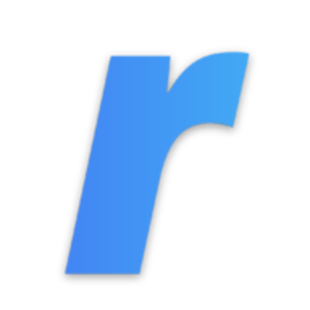
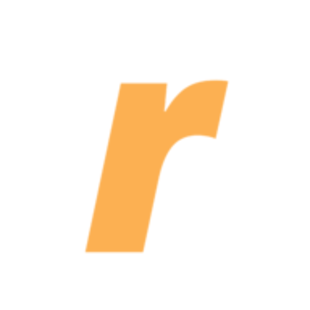
change theme color

Changed region(s): [[0.2032, 0.1452, 0.8129, 0.929]]

diff --git a/index.html b/index.html
@@ -21,9 +21,9 @@
   <link rel="icon" type="image/png" sizes="16x16" href="/assets/images/favicon-16x16.png">
 
                                     <!-- THEME AND SEO -->
-  <meta name="msapplication-TileColor" content="#ffffff">
+  <meta name="msapplication-TileColor" content="#2b334f">
   <meta name="msapplication-TileImage" content="/ms-icon-144x144.png">
-  <meta name="theme-color" content="#fff">
+  <meta name="theme-color" content="#2b334f">
   <meta name="viewport" content="width=device-width,initial-scale=1">
   <meta name="author" content="Ronaldi Chandra">
   <meta name="description" content="Just teenager who likes Android, Web, Open Source things.">
@@ -69,9 +69,6 @@
         <a href="https://discord.gg/vzgHp5G" target="_blank" aria-label="Discord" rel="noopener"><i class="fab fa-discord"></i></a>
     </div>
   </div>
-    <!-- <div id="footer">
-    <p>Made with ❤</p>
-    </div> -->
   <div class="back" text="Currently a Computer Science student. I'm a teenager who likes Android and Open-Source things and want to be Web Developer. I spend my free time for study about web programming."></div>
 
                       <!-- PWA INSTALLED -->
